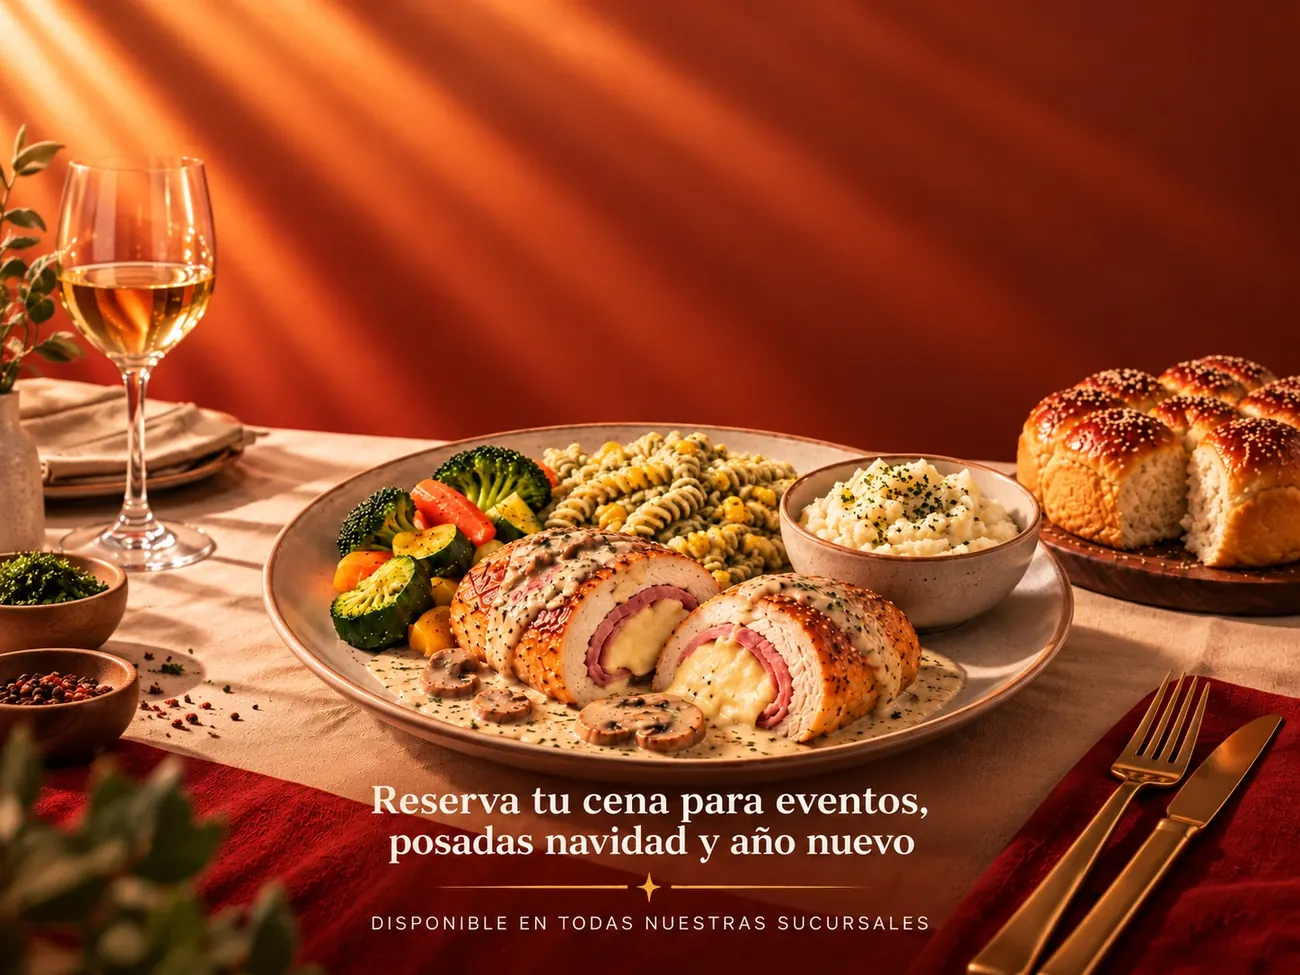
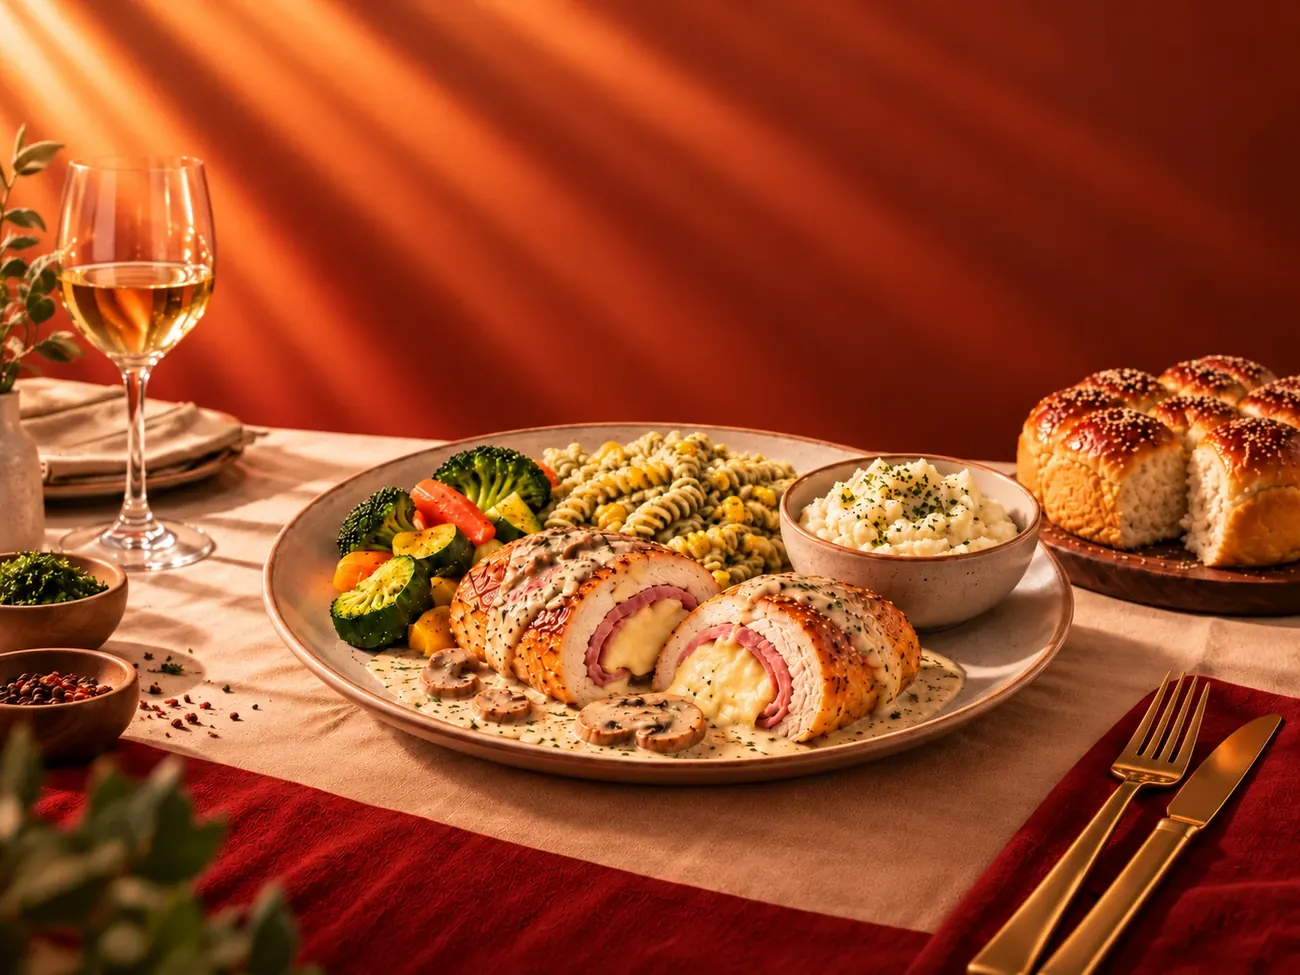
cenas: pechugas, medallones y rollo por kg con precio leído del catálogo; escena sin texto

diff --git a/src/data/cenas.js b/src/data/cenas.js
@@ -3,7 +3,10 @@ import { API_URL } from './vacantes.js'
 
 /* Cenas de fin de año (página /cenas). Aquí vive TODO lo que se edita de la campaña: el texto,
    el menú, las medidas y los precios. Un campo vacío ('') simplemente no se muestra:
-   - precio de cada platillo → junto a la medida (p. ej. '$180 el ½ litro · $320 el litro')
+   - precio de cada platillo → tras tocar «Ver precio» (p. ej. precio: '$180 el ½ litro · $320 el litro').
+     Si el platillo trae `catalogo` (una expresión que coincide con el nombre de un producto de la
+     tienda), el precio se lee del catálogo (así sigue los cambios de precio del admin) y se muestra
+     «$265 por kg». `precio` queda como respaldo por si el catálogo no responde.
    - fechaLimite, entrega, anticipo, minimo → filas de «Condiciones de la reserva»
    La reserva no se guarda en ningún servidor: el botón abre WhatsApp con la sucursal elegida. */
 
@@ -33,11 +36,11 @@ export const CENAS = {
       id: 'fuertes',
       titulo: 'Platos fuertes',
       items: [
-        { id: 'pechugas', nombre: 'Pechugas rellenas', icono: 'flame', medida: LITROS, precio: '',
+        { id: 'pechugas', nombre: 'Pechugas rellenas', icono: 'flame', medida: 'Por kg', precio: '', catalogo: /^pechuga rellena/i,
           detalle: 'Rellenas de jamón y queso, o de mozzarella con espinacas. Tú eliges el relleno.' },
-        { id: 'medallones', nombre: 'Medallones con tocino', icono: 'flame', medida: LITROS, precio: '',
+        { id: 'medallones', nombre: 'Medallones con tocino', icono: 'flame', medida: 'Por kg', precio: '', catalogo: /medall[oó]n/i,
           detalle: 'Medallones envueltos en tocino, para llevar al horno.' },
-        { id: 'rollo', nombre: 'Rollo relleno de jamón y queso', icono: 'flame', medida: LITROS, precio: '',
+        { id: 'rollo', nombre: 'Rollo relleno de jamón y queso', icono: 'flame', medida: 'Por kg', precio: '', catalogo: /^rollo relleno/i,
           detalle: 'Un rollo para rebanar y compartir, relleno de jamón y queso.' },
       ],
     },
@@ -64,6 +67,33 @@ export const CENAS = {
       ],
     },
   ],
+}
+
+// Precio por kg leído del catálogo de la primera sucursal activa (los preparados se venden por kg).
+// { [idPlatillo]: '$265 por kg' }; vacío mientras carga o si el catálogo no responde.
+export function usePreciosCatalogo() {
+  const [precios, setPrecios] = useState({})
+  useEffect(() => {
+    let vigente = true
+    const conCatalogo = CENAS.grupos.flatMap(g => g.items).filter(i => i.catalogo)
+    ;(async () => {
+      try {
+        const ramas = await (await fetch(`${API_URL}/api/branches`)).json()
+        const rama = (Array.isArray(ramas) ? ramas : []).find(b => b.active !== false)
+        if (!rama) return
+        const productos = await (await fetch(`${API_URL}/api/products/branch/${rama.id}`)).json()
+        if (!Array.isArray(productos)) return
+        const nuevos = {}
+        conCatalogo.forEach(it => {
+          const montos = productos.filter(p => p.active !== false && it.catalogo.test(p.name)).map(p => Number(p.price)).filter(n => n > 0)
+          if (montos.length) nuevos[it.id] = `$${Math.min(...montos).toLocaleString('es-MX')} por kg`
+        })
+        if (vigente) setPrecios(nuevos)
+      } catch { /* sin catálogo se usa el `precio` de respaldo */ }
+    })()
+    return () => { vigente = false }
+  }, [])
+  return precios
 }
 
 // ¿Se muestran la tarjeta del inicio y la de /links?

diff --git a/src/pages/CenasPage.jsx b/src/pages/CenasPage.jsx
@@ -1,6 +1,6 @@
 import { useEffect, useState } from 'react'
 import Icono from '../Components/Icono.jsx'
-import { CENAS, CONDICIONES, useSucursalesCenas, enlaceWhatsapp } from '../data/cenas.js'
+import { CENAS, CONDICIONES, useSucursalesCenas, usePreciosCatalogo, enlaceWhatsapp } from '../data/cenas.js'
 import { registrarEvento, registrarVisitaUnaVez } from '../data/medicion.js'
 import '../styles/homeV2.css'
 import '../styles/links.css'
@@ -13,6 +13,7 @@ const BASE = import.meta.env.BASE_URL
    está en data/cenas.js. */
 export default function CenasPage() {
   const { sucursales, cargando } = useSucursalesCenas()
+  const preciosCatalogo = usePreciosCatalogo()
 
   useEffect(() => { document.title = 'Cenas de fin de año · Casa del Pollo'; registrarVisitaUnaVez() }, [])
 
@@ -23,7 +24,7 @@ export default function CenasPage() {
           className="cn-escena-img"
           src={`${BASE}cenas/plato-horizontal.webp`}
           width="1300" height="975"
-          alt="Cena de fin de año de Casa del Pollo: pechuga rellena con pasta, verduras, puré de papa y rosca de pan danés"
+          alt="Mesa de cena de fin de año: pechuga rellena con pasta poblana, verduras, puré de papa, copa de vino y rosca de pan danés"
           fetchPriority="high"
         />
         <a className="cn-volver" href={BASE}>← Ir a la tienda</a>
@@ -50,7 +51,7 @@ export default function CenasPage() {
                       <h4>{it.nombre}{it.etiqueta && <small>{it.etiqueta}</small>}</h4>
                       <p>{it.detalle}</p>
                       <p className="cn-medida"><b>{it.medida}</b></p>
-                      {it.precio && <Precio id={it.id} texto={it.precio} />}
+                      {(preciosCatalogo[it.id] || it.precio) && <Precio id={it.id} texto={preciosCatalogo[it.id] || it.precio} />}
                     </div>
                   </li>
                 ))}
